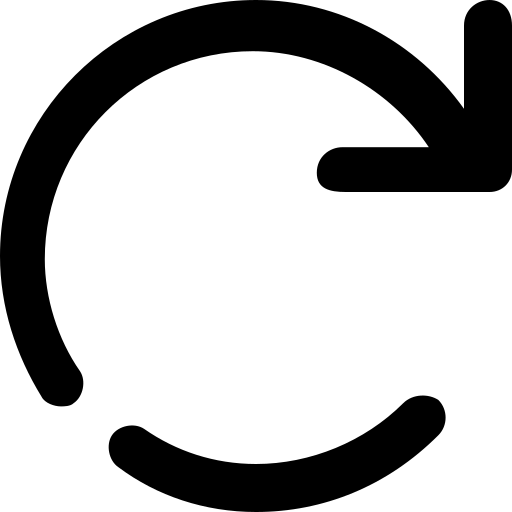
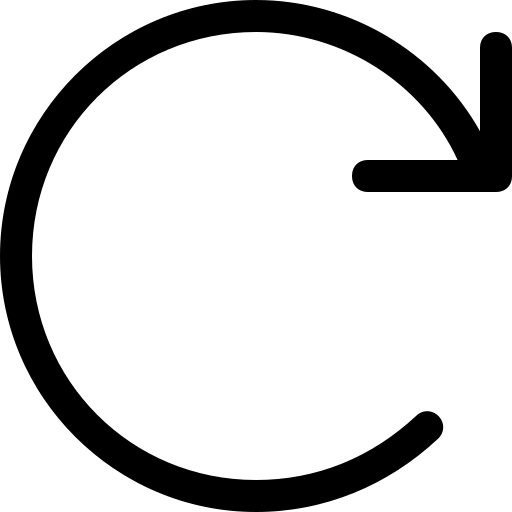
🐛 Fix:#153- 전역 상태 오류 수정 및 리셋 버튼 이미지 변경

diff --git a/src/components/FilterBar/RecipeFilterBar.tsx b/src/components/FilterBar/RecipeFilterBar.tsx
@@ -27,6 +27,10 @@ export default function FilterBar({ onFilterApply }: RecipeFilterBarProps) {
   const [isFilterApplied, setIsFilterApplied] = useState(false);
   const dropdownRef = useRef<HTMLDivElement | null>(null);
 
+  useEffect(() => {
+    setKeyword('');
+  }, []);
+
   const handleToggleDropdown = () => {
     setIsDropdownOpen(prev => !prev);
   };
